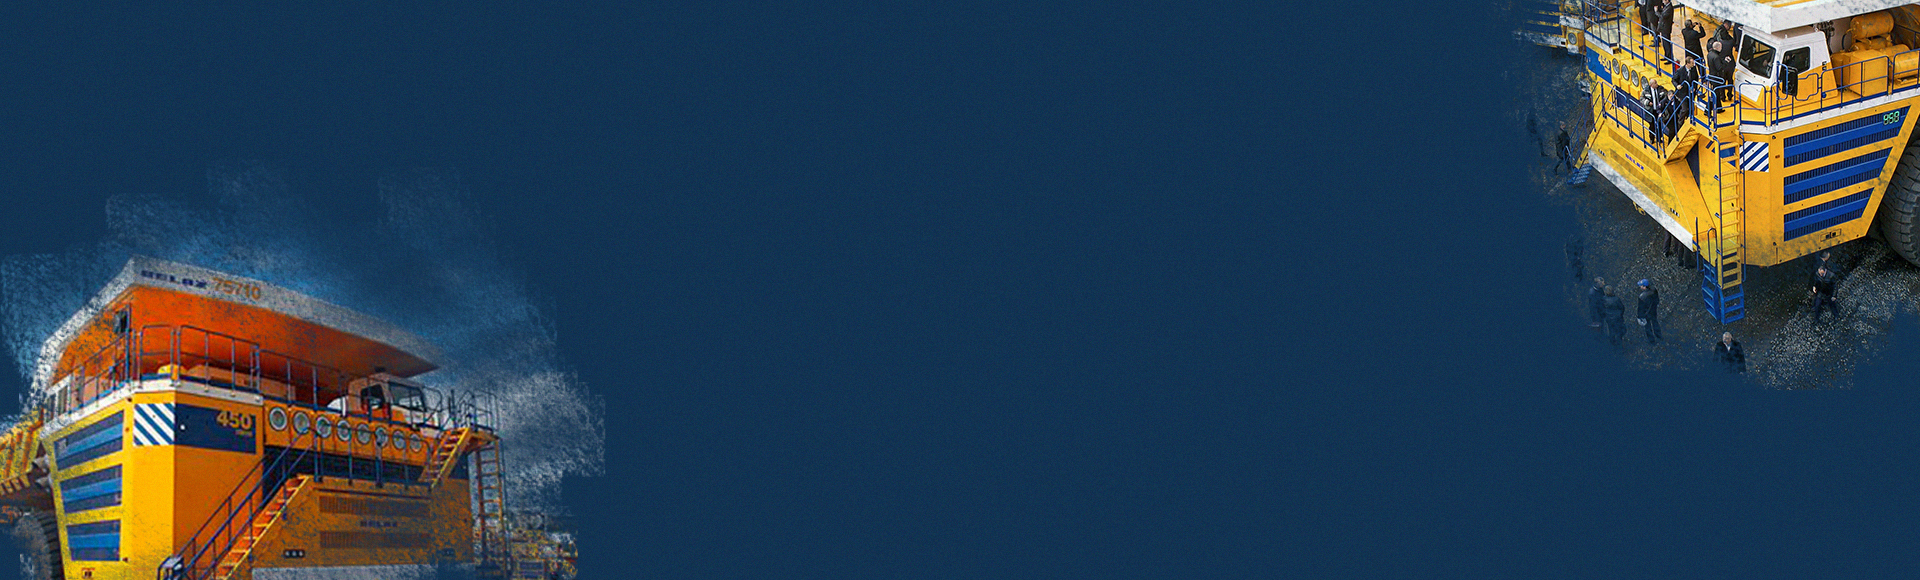
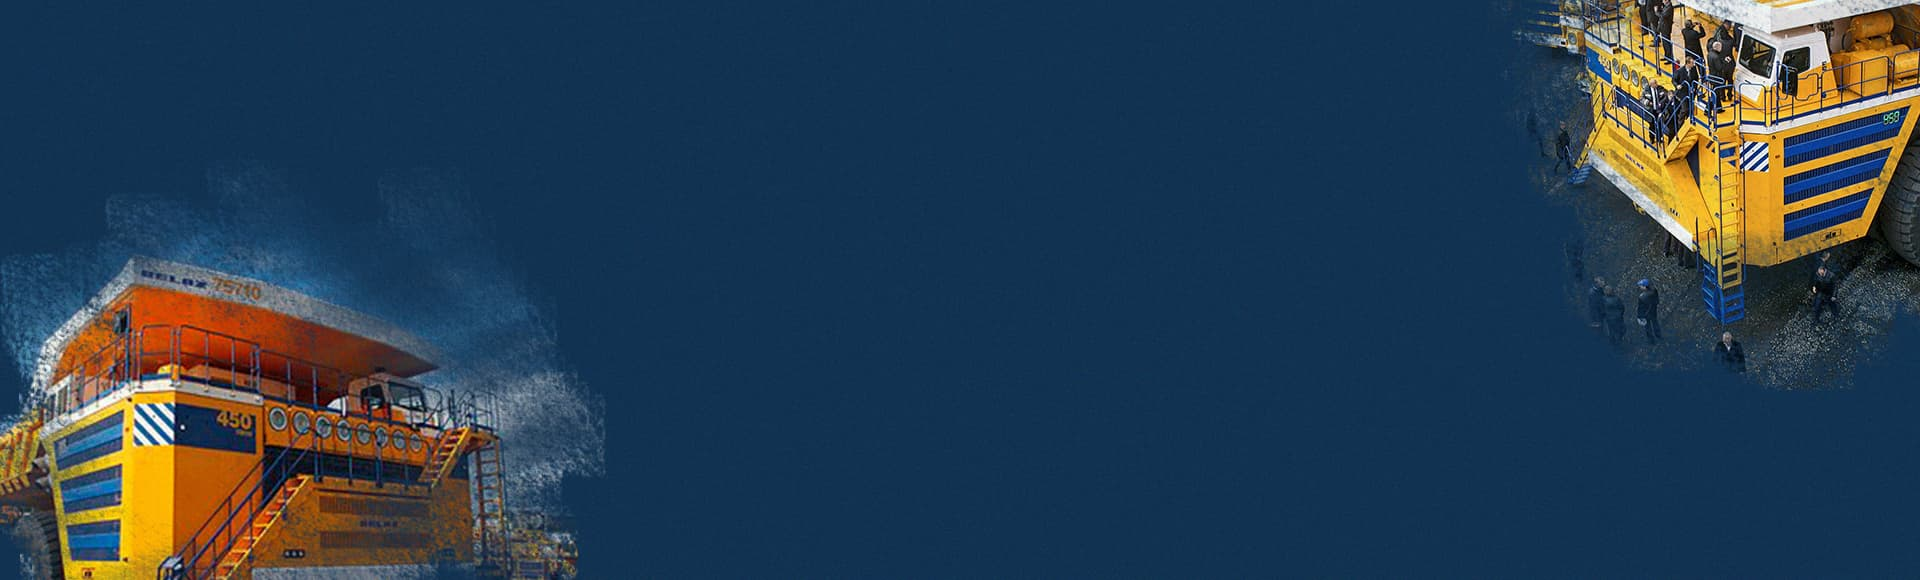
Изменил и оптимизировал картинки, исправил отображение картинок в слайдерах

diff --git a/src/index.html b/src/index.html
@@ -257,9 +257,9 @@
                 <ul class="storage__list owl-carousel owl-theme">
                     <li class="storage__item"><img src="img/storage-1.jpg" alt="Наш склад в Москве" srcset="img/storage-1@2x.jpg 2x"></li>
                     <li class="storage__item"><img src="img/storage-2.jpg" alt="Наш склад в Москве" srcset="img/storage-2@2x.jpg 2x"></li>
-                    <li class="storage__item"><img src="img/storage-2.jpg" alt="Наш склад в Москве" srcset="img/storage-2@2x.jpg 2x"></li>
-                    <li class="storage__item"><img src="img/storage-1.jpg" alt="Наш склад в Москве" srcset="img/storage-1@2x.jpg 2x"></li>
-                    <li class="storage__item"><img src="img/storage-1.jpg" alt="Наш склад в Москве" srcset="img/storage-1@2x.jpg 2x"></li>
+                    <li class="storage__item"><img src="img/storage-3.jpg" alt="Наш склад в Москве" srcset="img/storage-3@2x.jpg 2x"></li>
+                    <li class="storage__item"><img src="img/storage-4.jpg" alt="Наш склад в Москве" srcset="img/storage-4@2x.jpg 2x"></li>
+                    <li class="storage__item"><img src="img/storage-5.jpg" alt="Наш склад в Москве" srcset="img/storage-5@2x.jpg 2x"></li>
                 </ul>
             </div>
         </section>
@@ -305,7 +305,7 @@
         <section class="map">
             <h2 class="visually-hidden">Где нас найти?</h2>
             <script type="text/javascript" charset="utf-8" async src="https://api-maps.yandex.ru/services/constructor/1.0/js/?um=constructor%3A9f8e80bd79e889c5abbca7f38ec9b706e813a3575910f25f619d601bda48e58e&amp;width=100%25&amp;height=400&amp;lang=ru_RU&amp;scroll=true"></script>
-            <img class="map__img no-js" src="img/map.png" alt="">
+            <img class="map__img no-js" src="img/map.jpg" alt="">
         </section>
     </main>
     <footer class="footer">
@@ -321,68 +321,7 @@
             </div>
         </div>
     </footer>
-
-    <script>
-        document.querySelector(".no-js").classList.remove("no-js");
-    </script>
-
-    <script>
-        const headerToggle = document.querySelector(".header__toggle");
-        const mobileWrapper = document.querySelector(".header__inner-wrapper");
-        const headerClose = document.querySelector(".header__close");
-
-        headerToggle.addEventListener("click", () => {
-            mobileWrapper.classList.add("header__inner-wrapper--opened");
-        });
-
-        headerClose.addEventListener("click", () => {
-            mobileWrapper.classList.remove("header__inner-wrapper--opened");
-        });
-    </script>
-
-    <script>
-        const faqQuestions = document.querySelectorAll(".faq__question");
-        const faqClose = document.querySelectorAll(".faq__close");
-
-        let closeAllAnswers = (questions) => {
-            questions.forEach((question) => {
-                if (question.nextElementSibling.classList.contains("faq__answer--opened")) {
-                    question.nextElementSibling.classList.remove("faq__answer--opened");
-                }
-            });
-        }
-
-        faqQuestions.forEach((question) => {
-            question.addEventListener("click", () => {
-                if (question.nextElementSibling.classList.contains("faq__answer--opened")) {
-                    question.nextElementSibling.classList.remove("faq__answer--opened");
-                } else {
-                    closeAllAnswers(faqQuestions);
-                    question.nextElementSibling.classList.add("faq__answer--opened");
-                }
-            });
-        })
-
-        faqClose.forEach((close) => {
-            close.addEventListener("click", () => {
-                close.parentElement.classList.remove("faq__answer--opened");
-            });
-        });
-    </script>
-
-    <script>
-        const faqMore = document.querySelector(".faq__more");
-        const faqItemsHidden = document.querySelectorAll(".faq__item--hidden");
-
-        faqMore.addEventListener("click", () => {
-            faqMore.classList.add("faq__more--hidden");
-
-            faqItemsHidden.forEach((item) => {
-                item.classList.remove("faq__item--hidden");
-            })
-        });
-    </script>
-
+    <script src="js/main.js"></script>
     <script src="https://code.jquery.com/jquery-3.5.1.min.js" integrity="sha256-9/aliU8dGd2tb6OSsuzixeV4y/faTqgFtohetphbbj0=" crossorigin="anonymous"></script>
     <script src="js/owl.carousel.min.js"></script>
 

diff --git a/src/js/main.js b/src/js/main.js
@@ -1,0 +1,52 @@
+document.querySelector(".no-js").classList.remove("no-js");
+
+const headerToggle = document.querySelector(".header__toggle");
+const mobileWrapper = document.querySelector(".header__inner-wrapper");
+const headerClose = document.querySelector(".header__close");
+
+headerToggle.addEventListener("click", () => {
+    mobileWrapper.classList.add("header__inner-wrapper--opened");
+});
+
+headerClose.addEventListener("click", () => {
+    mobileWrapper.classList.remove("header__inner-wrapper--opened");
+});
+
+const faqQuestions = document.querySelectorAll(".faq__question");
+const faqClose = document.querySelectorAll(".faq__close");
+
+let closeAllAnswers = (questions) => {
+    questions.forEach((question) => {
+        if (question.nextElementSibling.classList.contains("faq__answer--opened")) {
+            question.nextElementSibling.classList.remove("faq__answer--opened");
+        }
+    });
+}
+
+faqQuestions.forEach((question) => {
+    question.addEventListener("click", () => {
+        if (question.nextElementSibling.classList.contains("faq__answer--opened")) {
+            question.nextElementSibling.classList.remove("faq__answer--opened");
+        } else {
+            closeAllAnswers(faqQuestions);
+            question.nextElementSibling.classList.add("faq__answer--opened");
+        }
+    });
+})
+
+faqClose.forEach((close) => {
+    close.addEventListener("click", () => {
+        close.parentElement.classList.remove("faq__answer--opened");
+    });
+});
+
+const faqMore = document.querySelector(".faq__more");
+const faqItemsHidden = document.querySelectorAll(".faq__item--hidden");
+
+faqMore.addEventListener("click", () => {
+    faqMore.classList.add("faq__more--hidden");
+
+    faqItemsHidden.forEach((item) => {
+        item.classList.remove("faq__item--hidden");
+    })
+});

diff --git a/src/scss/blocks/contacts.scss b/src/scss/blocks/contacts.scss
@@ -7,13 +7,13 @@
     
     @media (min-width: $desktop-screen) {
         padding: 100px 0;
-        background-image: url("../img/contacts-bg.png");
+        background-image: url("../img/contacts-bg.jpg");
         background-repeat: no-repeat;
-        background-size: 1500px;
-        background-position: center -30px;
+        background-size: cover;
+        background-position: center;
 
         @media (min-resolution: 144dpi), (min-resolution: 192dppx) {
-            background-image: url("../img/contacts-bg@2x.png");
+            background-image: url("../img/contacts-bg@2x.jpg");
         }
     }
 }

diff --git a/src/scss/blocks/consultation.scss b/src/scss/blocks/consultation.scss
@@ -9,13 +9,13 @@
     
     @media (min-width: $desktop-screen) {
         padding: 100px 0;
-        background-image: url("../img/consultation-bg.png");
+        background-image: url("../img/consultation-bg.jpg");
         background-repeat: no-repeat;
         background-size: contain;
-        background-position: right 230px;
+        background-position: right bottom;
 
         @media (min-resolution: 144dpi), (min-resolution: 192dppx) {
-            background-image: url("../img/consultation-bg@2x.png");
+            background-image: url("../img/consultation-bg@2x.jpg");
         }
     }
 }

diff --git a/src/scss/blocks/guarantee.scss b/src/scss/blocks/guarantee.scss
@@ -44,6 +44,8 @@
 .guarantee__img {
     display: block;
     margin: 0 auto;
+    object-fit: cover;
+    object-position: left;
 }
 
 .guarantee__text {

diff --git a/src/scss/blocks/storage.scss b/src/scss/blocks/storage.scss
@@ -27,6 +27,8 @@
 }
 
 .storage__item img{
+    height: 247px;
+    object-fit: cover;
     // height: 400px;
 }
 
